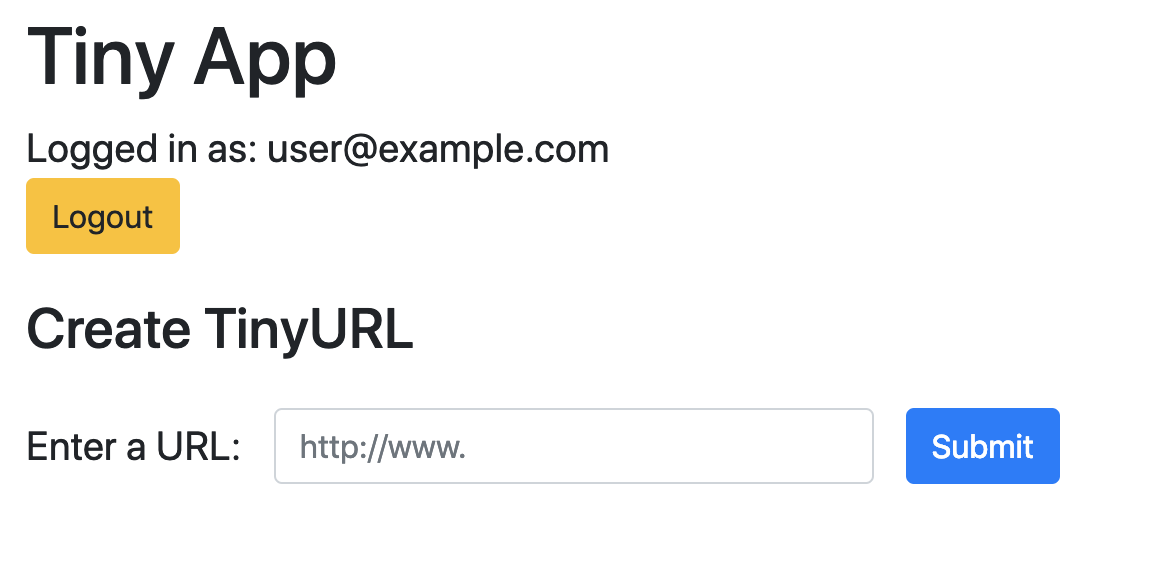
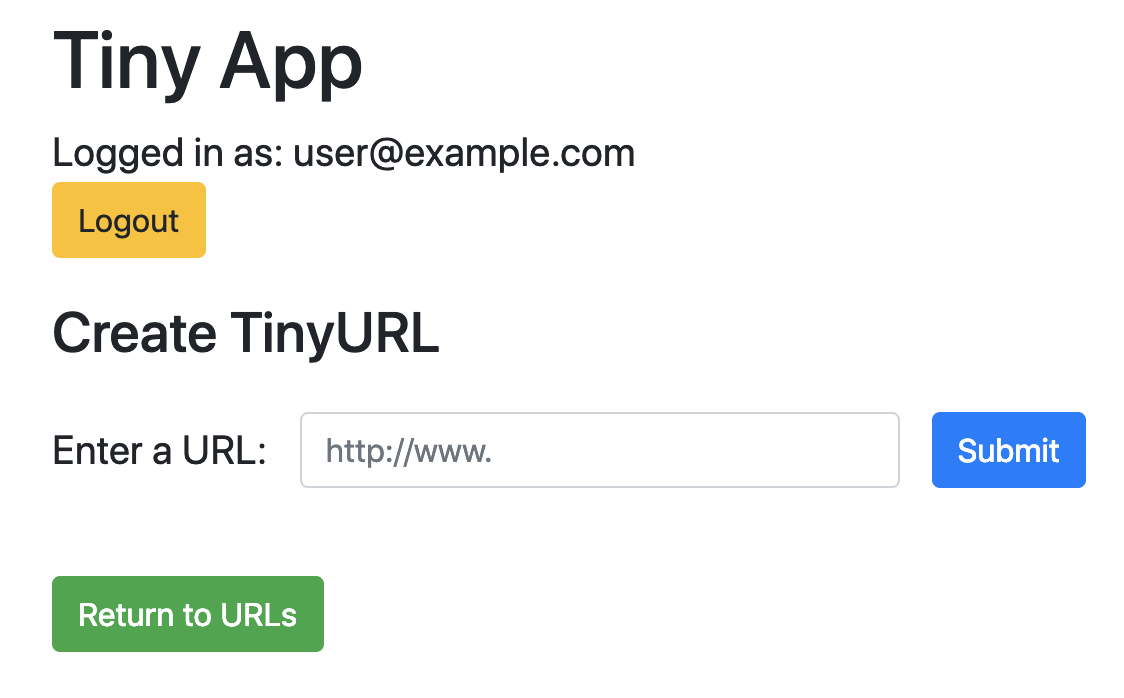
Updated screenshots and corrected header bug

Changed region(s): [[0.0, 0.5387, 0.9653, 0.9577], [0.0, 0.1796, 0.5916, 0.5088], [0.0, 0.0299, 0.3425, 0.1796]]

diff --git a/expiress_server.js b/expiress_server.js
@@ -88,9 +88,9 @@ app.get("/u/:shortURL", (req, res) => {
   for(keys in functions.urlDatabase){
     if (shortURL === keys){
       const longURL = functions.urlDatabase[req.params.shortURL].longURL;
-      res.redirect(longURL);
+      return res.redirect(longURL);
     }
-  } res.render("urlNotFound");
+  } return res.render("urlNotFound");
 
 });
 
